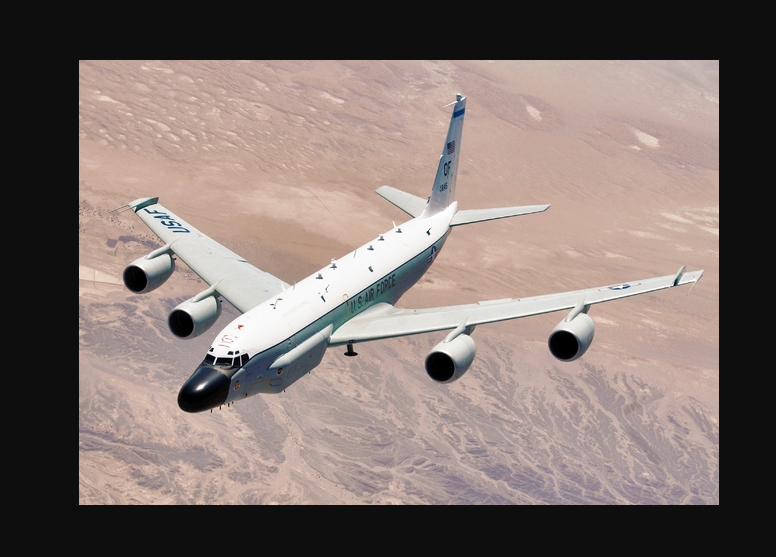
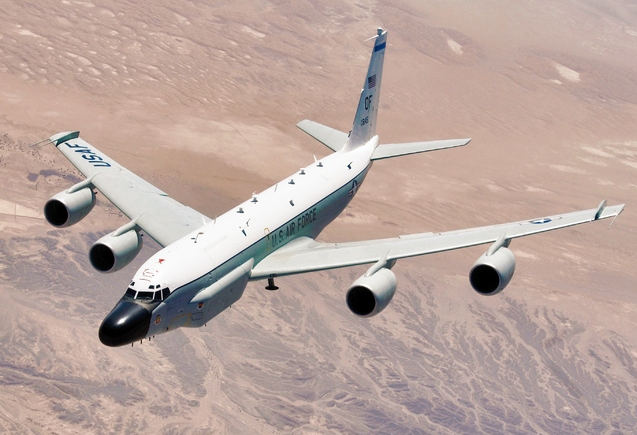
.

diff --git a/images/2026.html b/images/2026.html
@@ -83,10 +83,6 @@
 
 <img src="../i/20261026_04.png">
 
-<img src="../i/20261026_05.png">
-
-<img src="../i/20261026_06.png">
-
 <h2>20261025</h2>
 
 <img src="../i/20261025.png">
